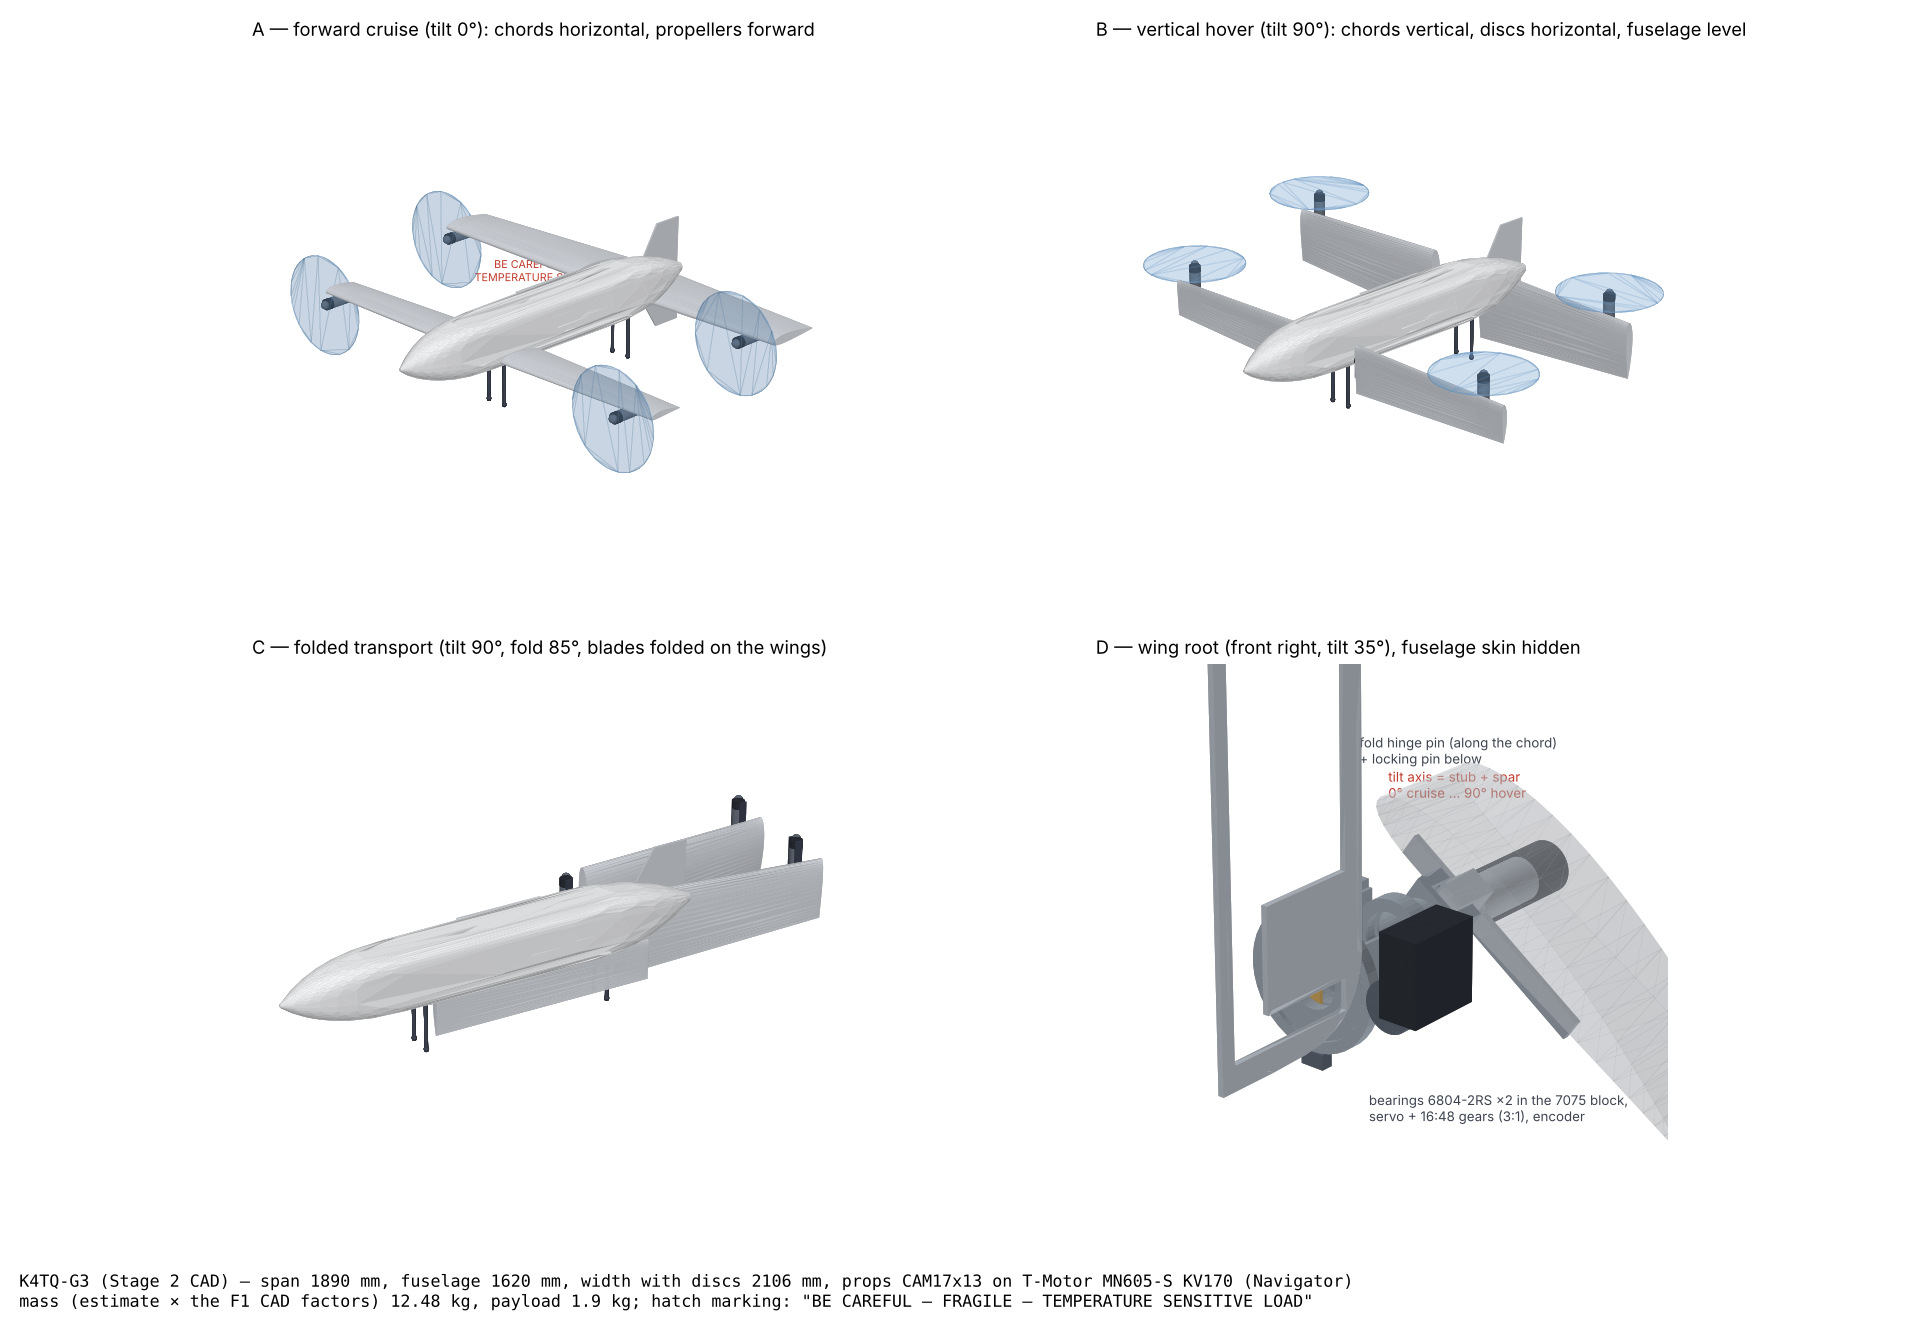
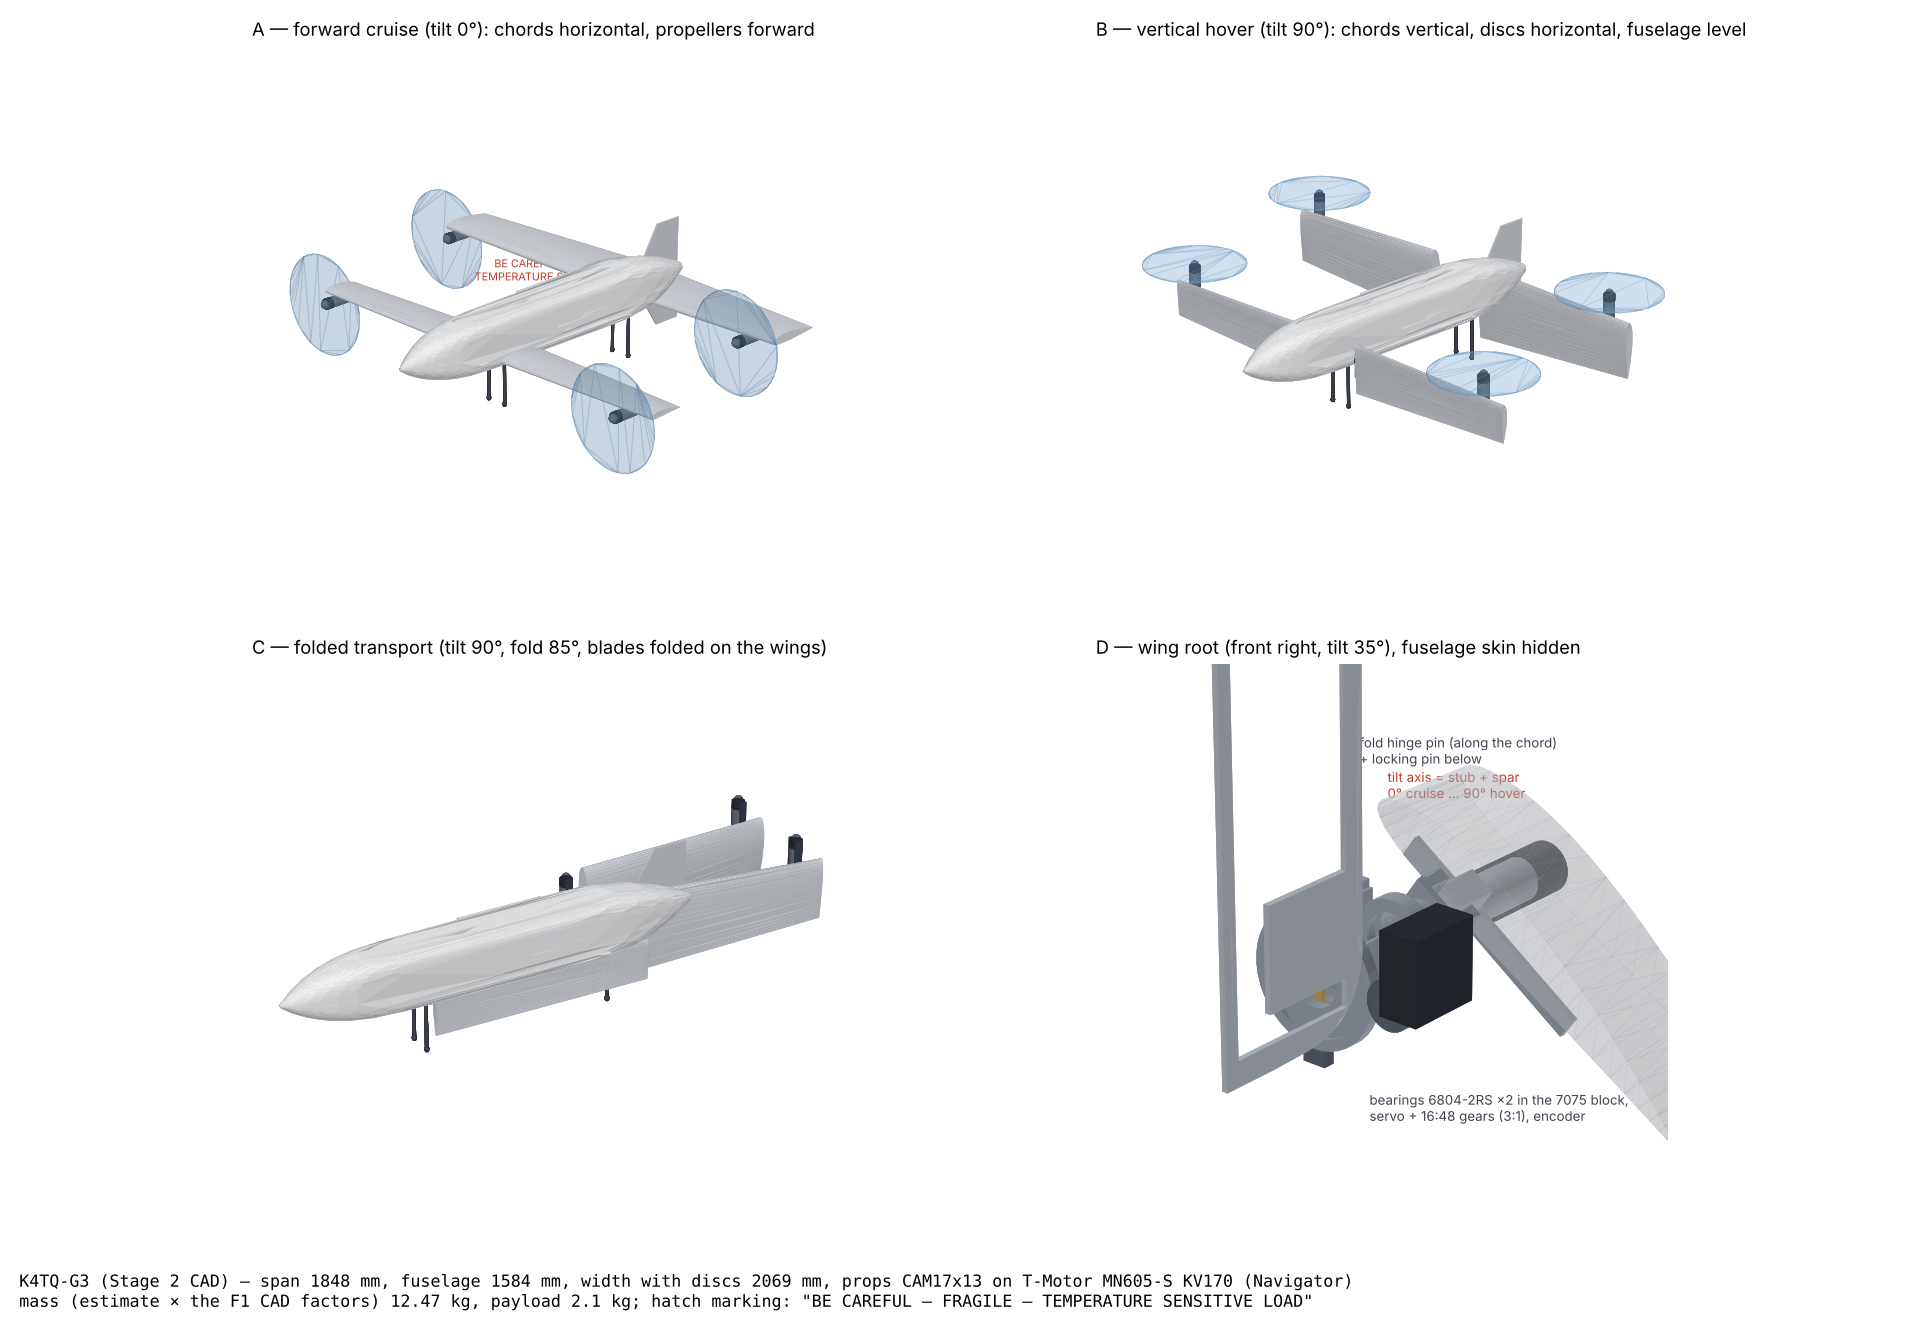
K4TQ-G3 "Ginna 3": 2.1 kg payload (required) — the airframe x 1.32 keeps 12.5 kg and the 18 m/s stall; range 83 km kept
Claude-Session: https://claude.ai/code/session_01WN1rZ9psg77nj8CmdgKx8W

diff --git a/labs/aero/designs/k4tq.py b/labs/aero/designs/k4tq.py
@@ -382,7 +382,7 @@ NICKNAME.update({"B": "Bertha", "G": "Ginna", "G2": "Ginna autonomous"})
 FAST = {
     # off the shelf (2026-10-21): T-Motor Navigator motors within their rated voltage, Aeronaut CAM Carbon folding blades
     "F3": dict(motor="MN505S-380", prop="CAM16x13", battery="6S3P-P45B", esc="esc", payload_kg=1.0, v_top=45.0),
-    "G3": dict(motor="MN605S-170", prop="CAM17x13", battery="12S3P-P45B", esc="esc_hv", payload_kg=1.95, v_top=40.0, s=1.35),
+    "G3": dict(motor="MN605S-170", prop="CAM17x13", battery="12S3P-P45B", esc="esc_hv", payload_kg=2.1, v_top=40.0, s=1.32),   # 2.1 kg (MUST, 2026-10-22): × 1.32 keeps 12.5 kg and the stall at 18 m/s
 }
 for _k, _v in FAST.items():
     _v = dict(_v)

diff --git a/labs/aero/tests/test_k4tq_fast.py b/labs/aero/tests/test_k4tq_fast.py
@@ -21,4 +21,4 @@ def test_fast_designs_meet_the_fpv_speed_and_keep_the_range():
         assert e["hover ok"] and e["R3 closes"] and e["R3 margin [Wh]"] >= kf.MARGIN_MIN and e["root ok"]
         assert e["still-air range [km]"] >= kf.RANGE_KEEP * kf.parent_range(d)
     assert sz.vehicle("G3")["mass"]["mass_kg"] <= ks.LIMITS["G"] + 0.01
-    assert k4tq.params("F3")["payload_kg"] == 1.0
+    assert k4tq.params("F3")["payload_kg"] == 1.0 and k4tq.params("G3")["payload_kg"] >= 2.1

diff --git a/labs/aero/notebooks/k4_plan.md b/labs/aero/notebooks/k4_plan.md
@@ -67,7 +67,7 @@ Done 2026-10-21 (mocks on): `designs/k4tq.py`, `designs/k4tq_sizing.py`, report 
 | K4TQ-G "Ginna" | Freddy × 1.35 sized to ≤ 12.5 kg: U8 II KV170 + 20x10, 12S3P, payload 2.6 kg (the mass limit binds) | `k4tq.SCALED["G"]` (`designs/k4tq_scaled.py`) |
 | K4TQ-G2 | Ginna + the Jetson, Ginna's drive, 12.5 kg, 2.3 kg payload, 57 km | `k4tq.VARIANTS["G2"]` |
 | K4TQ-F3 "Freddy 3" | Freddy + the Jetson, off the shelf: T-Motor MN505-S KV380 + Aeronaut CAM 16x13 folding on 6S3P: top 45 m/s (162 km/h) ≥ the 15" FPV quad's 124 km/h with payload; 7.50 kg, 1 kg payload, 59 km (F2: 54) | `k4tq.FAST["F3"]` (`designs/k4tq_fast.py`, `exp/K4TQ_freddy3.ipynb`) |
-| K4TQ-G3 "Ginna 3" | Ginna + the Jetson, off the shelf: T-Motor MN605-S KV170 + Aeronaut CAM 17x13 folding on 12S3P: top 40 m/s (144 km/h); 12.5 kg, 1.95 kg payload, 82 km (G2: 57) | `k4tq.FAST["G3"]` (`exp/K4TQ_ginna3.ipynb`) |
+| K4TQ-G3 "Ginna 3" | Freddy × 1.32 + the Jetson, off the shelf: T-Motor MN605-S KV170 + Aeronaut CAM 17x13 folding on 12S3P: top 40 m/s (144 km/h); 12.47 kg, **2.1 kg payload** (required), 83 km (G2: 57) | `k4tq.FAST["G3"]` (`exp/K4TQ_ginna3.ipynb`) |
 | ~~K4TQ-B "Bertha"~~ | parked 2026-10-21 (too heavy): Freddy × 1.85 sized to ≤ 24 kg, U12 II KV100 + 28x17, 12S4P, payload 5.15 kg | `k4tq.SCALED["B"]` (kept) |
 
 Compared in `exp/K4TQ_compare.ipynb` (`designs/k4tq_compare.py`); A2 against F2 in the climb, the descent and the manoeuvre in `exp/K4TQ_envelope.ipynb` (`designs/k4tq_envelope.py`); Cathy and Freddy against Q-13, Q-17 (K4TQ's footprint) and Q-17 heavy (K4TQ's mass) in `exp/K4TQ_quads.ipynb` (`designs/k4tq_quads.py`); Ginna and Bertha against Freddy in `exp/K4TQ_scaled.ipynb`. E (equal tandem) and C (compact) are the Stage 1 studies.
